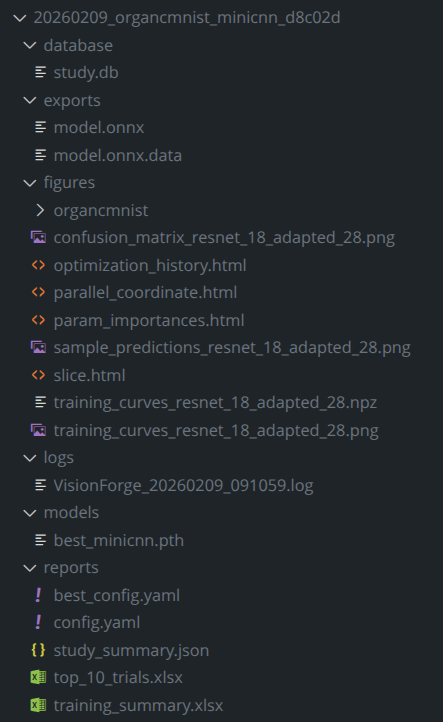
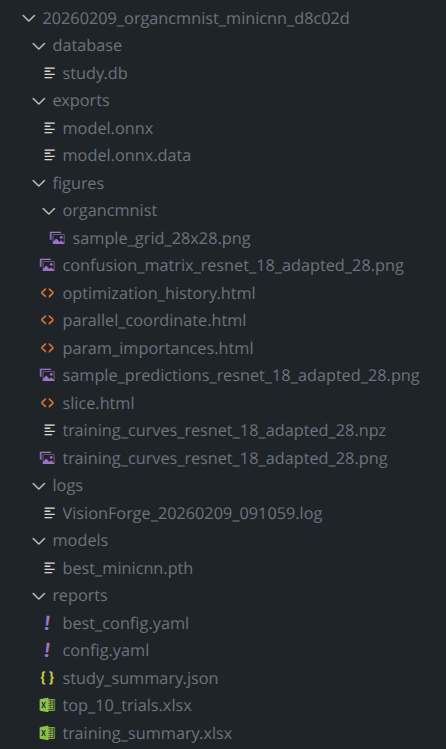
docs: update contributing guidelines and artifacts list
- document full quality check scripts before PRs
- extend figures artifacts with raw curves and augmentation preview

Changed region(s): [[0.0293, 0.0, 0.9391, 1.0]]

diff --git a/CONTRIBUTING.md b/CONTRIBUTING.md
@@ -39,7 +39,7 @@ Before committing, run the automated quality checks:
 
 ```bash
 # Run all checks (linting, formatting, tests, coverage)
-bash scripts/run_checks.sh
+bash scripts/check_quality_full.sh
 ```
 
 This script validates:
@@ -60,7 +60,7 @@ This script validates:
 1. **Fork** the repository
 2. **Create a feature branch** (`git checkout -b fix/issue-description`)
 3. **Make your changes** with tests
-4. **Run quality checks** (`bash scripts/run_checks.sh`)
+4. **Run quality checks** (`bash scripts/check_quality_full.sh`)
 5. **Commit** with clear messages
 6. **Push** and open a Pull Request
 

diff --git a/README.md b/README.md
@@ -242,6 +242,8 @@ Every run generates a complete artifact suite for total traceability. Both train
 |----------|-------------|
 | `config_snapshot.yaml` | Frozen config at run start |
 | **figures/** | |
+| ├ `training_curves.npz` | Raw curves |
+| ├ `sample_grid.png` | Augmentation preview |
 | ├ `confusion_matrix.png` | Per-class predictions |
 | ├ `training_curves.png` | Loss/AUC over epochs |
 | ├ `sample_grid.png` | Dataset samples |
